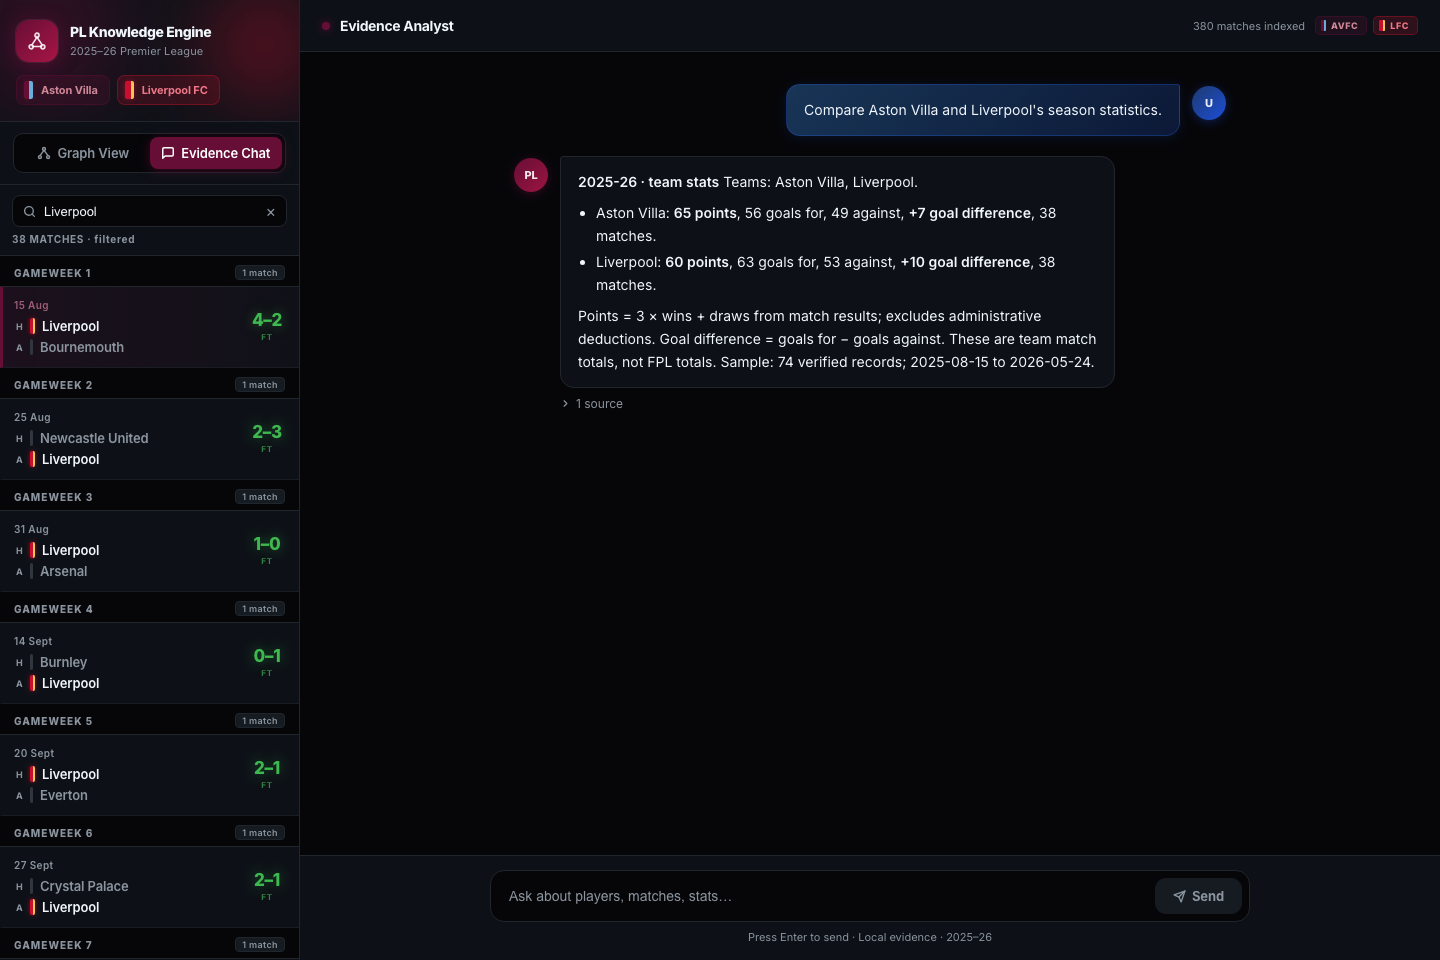
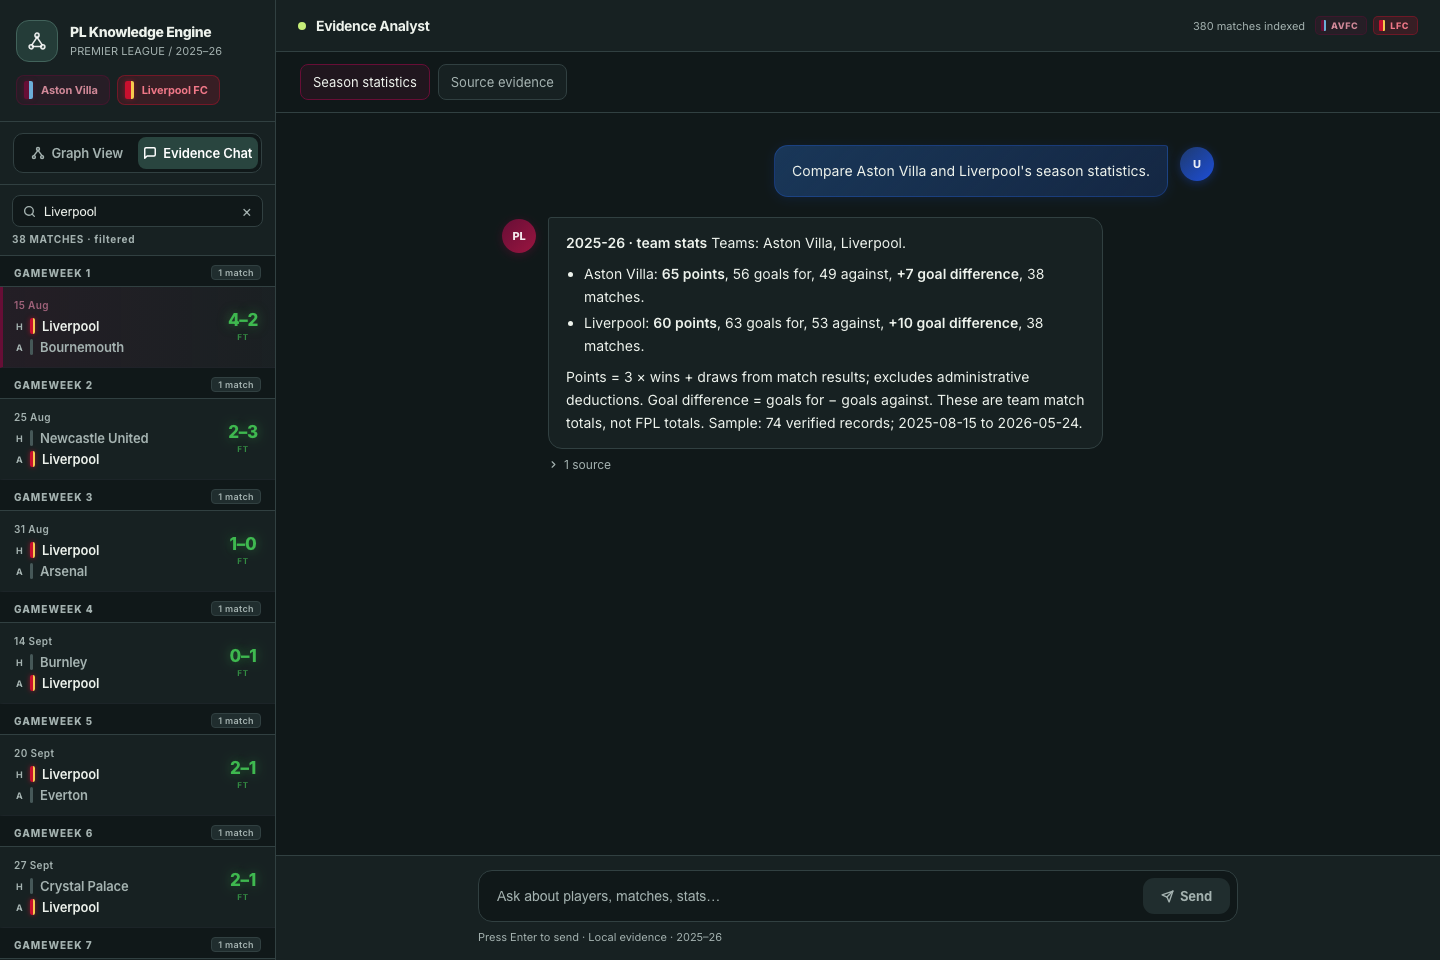
docs: refresh README with actual graph and mobile workspace screenshots

diff --git a/README.md b/README.md
@@ -32,18 +32,24 @@ The [fresh-data MVP milestone](https://github.com/jengaWiz/pl-knowledge-engine/m
 
 ## Demo
 
-![Actual Docker demo comparing Aston Villa and Liverpool with verified season statistics](docs/images/demo-analysis.png)
+![Club-first relationship explorer showing the 20 Premier League clubs and season](docs/images/demo-graph.png)
 
 - **Evidence analyst:** compare points, goals and goal difference; inspect last-five form, home/away splits and goal/assist rankings, including per-90 rates with a minutes threshold.
-- **Connected graph:** explore season, club, gameweek, fixture and player relationships, with player search and match views.
+- **Focused graph explorer:** start with 20 clubs, drill into up to 12 available players and six recent fixtures, or search a player. Stable, labeled layouts replace the full-graph cluster; inspect real relationship directions and follow connections. Mobile starts in an accessible list view. Player/fixture views show up to eight recent appearance records.
 - **Fixture browser:** filter the full league schedule and navigate results using mouse or keyboard.
 - **Source evidence:** select a historical season, resolve fixture or player/opponent questions, and inspect verified records with original row/revision references. [Optional preparation and API guide](docs/evidence-api-ui.md).
 - **Evidence retrieval API:** search local summaries by club and inspect source URLs, record IDs and provenance.
 
 <details>
-<summary>See the match graph and mobile experience</summary>
+<summary>See club exploration, match detail and the mobile experience</summary>
 
-![Actual Liverpool–Bournemouth match graph](docs/images/demo-match.png)
+![Liverpool squad and recent fixtures in a bounded relationship map](docs/images/demo-club.png)
+
+![Actual Liverpool–Bournemouth match graph with readable appearance records](docs/images/demo-match.png)
+
+<img src="docs/images/demo-graph-mobile.png" width="390" alt="Mobile graph explorer with selectable club records" />
+
+![Actual Docker demo comparing Aston Villa and Liverpool with verified season statistics](docs/images/demo-analysis.png)
 
 <img src="docs/images/demo-mobile.png" width="390" alt="Mobile analyst showing the verified Aston Villa and Liverpool comparison" />
 
@@ -143,7 +149,7 @@ Verified against pinned **2025–26** sources. [Acceptance evidence and reproduc
 | Python suite | **542 tests passed**; CI covers Python 3.11 and 3.12. |
 | Independent numerical references | **42/42 passed**, plus five insufficient-evidence cases. |
 | Real-store/API acceptance | **Seven checks passed**, including all 42 live numerical references. |
-| Desktop/mobile browser flows | **8/8 passed** against the Docker-served production dashboard. |
+| Desktop/mobile browser flows | **20/20 passed**, covering graph exploration, keyboard navigation, fixtures, statistics and source evidence on desktop/mobile. |
 | Empty-storage Docker setup | Public collection, validation, graph/index loading and readiness passed. |
 | Backup and restart | All four volumes backed up privately; versions, counts and live answers preserved without recollection. |
 | CI | Python checks, wheel packaging, frontend build, Docker build and cold-storage readiness checks. |
